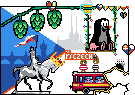
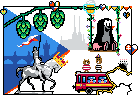
New art

diff --git a/index.html b/index.html
@@ -27,7 +27,7 @@
         const Y_GRID_PIXELS = 12
 
         // Top Left corner, including
-        const X_IMG_POSITION = 1197;
+        const X_IMG_POSITION = 1197 - 3;
         const Y_IMG_POSITION = 161 - 6;
 
         const X_OFFSET = 0
